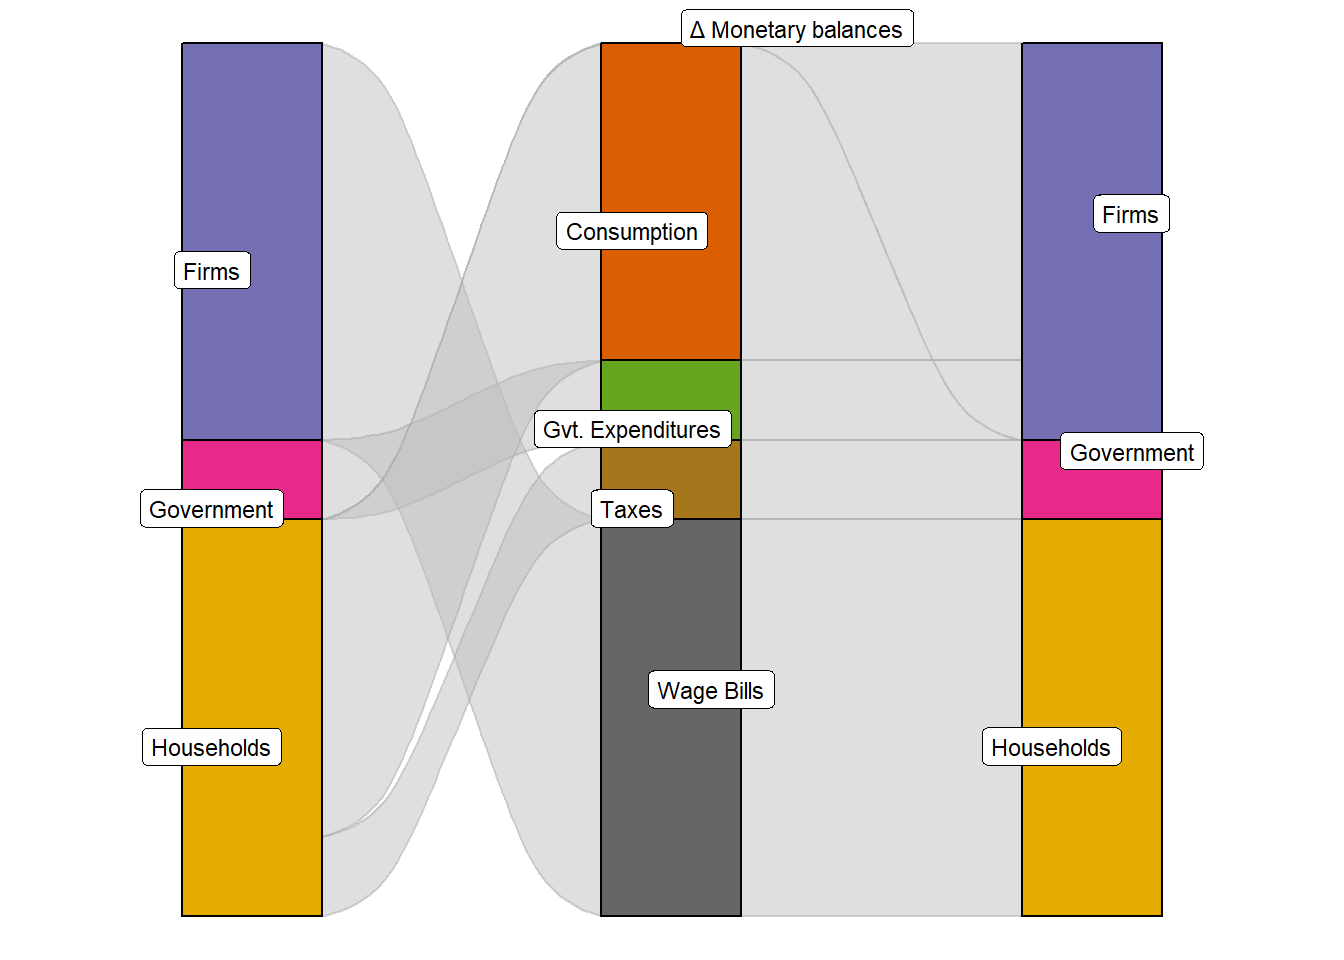
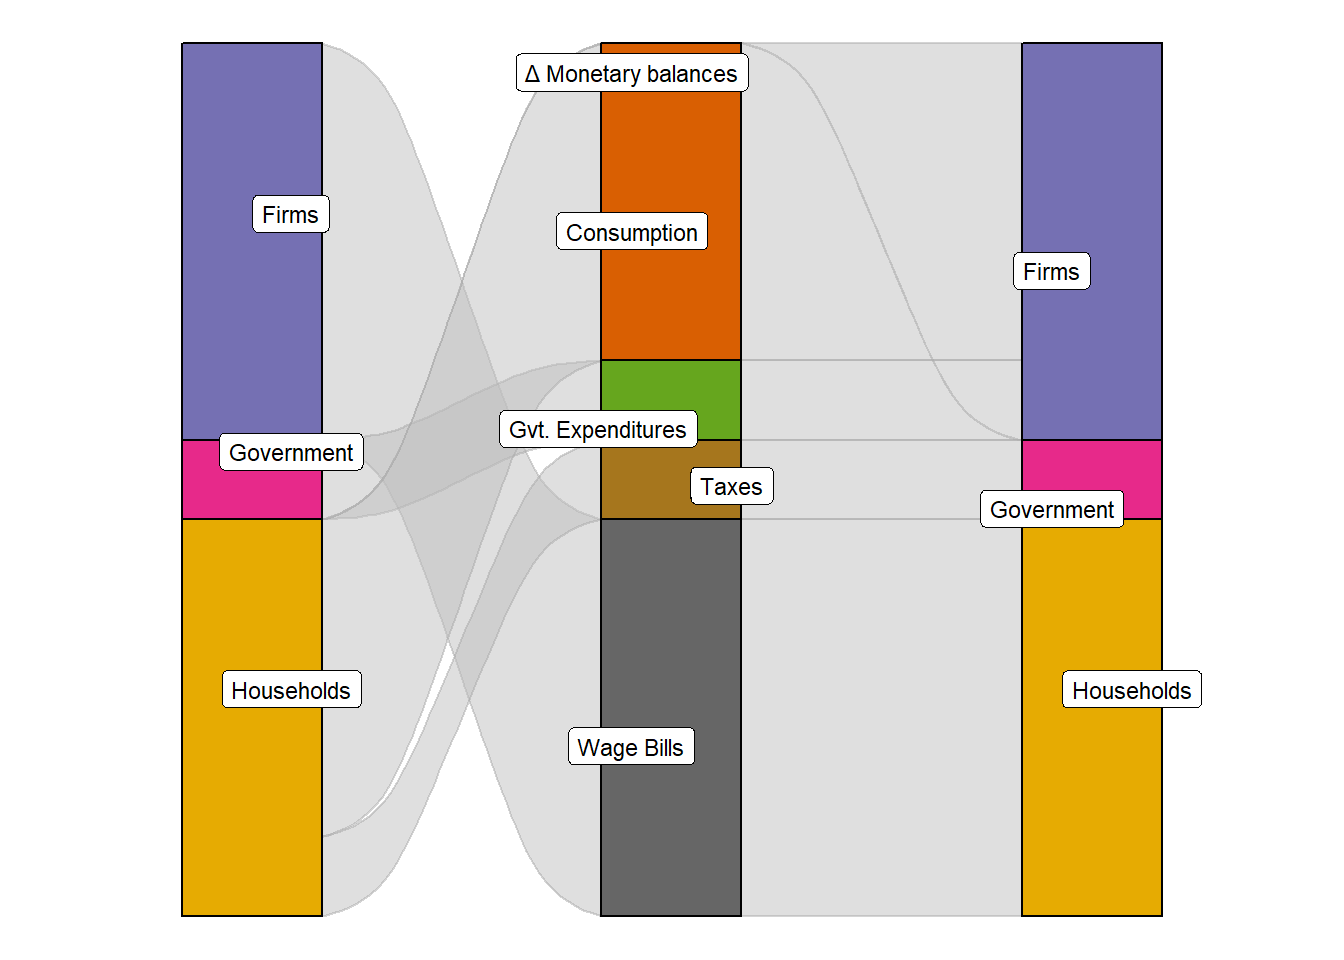
update

diff --git a/content/post/2020-10-17-sankey-s-diagram-in-r.html b/content/post/2020-10-17-sankey-s-diagram-in-r.html
@@ -4,7 +4,7 @@ author: João Pedro S. Macalós
 date: '2020-10-17'
 slug: sankey-s-diagram-in-r
 categories: []
-tags: []
+tags: [sfc]
 subtitle: ''
 summary: ''
 authors: []
@@ -14,10 +14,9 @@ image:
   caption: ''
   focal_point: ''
   preview_only: no
-projects: []
+projects: [sfc]
 output: 
-  blogdown::html_page:
-    pandoc_args: --webtex
+  blogdown::html_page
 bibliography: references.bib
 ---
 
@@ -28,8 +27,12 @@ bibliography: references.bib
 <script src="/rmarkdown-libs/sankeyNetwork-binding/sankeyNetwork.js"></script>
 
 
+<script src="//yihui.name/js/math-code.js"></script>
+<script async
+src="//cdn.bootcss.com/mathjax/2.7.1/MathJax.js?config=TeX-MML-AM_CHTML">
+</script>
 <p>In this post I will explain how to create a Sankey’s diagram to visualize a transactions-flow matrix of a SFC model.</p>
-<p>Load packages and the main functions of the <code>sfc</code> beta-package (under construction):</p>
+<p>Load packages and the main functions of the <code>sfc</code> package (under construction):</p>
 <pre class="r"><code>library(tidyverse)</code></pre>
 <pre><code>## -- Attaching packages ---------------------------------------------------------------------------------------------------- tidyverse 1.3.0 --</code></pre>
 <pre><code>## v ggplot2 3.3.2     v purrr   0.3.4
@@ -54,12 +57,6 @@ source(&#39;../../../sfc/gen_steady_todo.R&#39;)</code></pre>
 <p>The objective of this notebook is to show how to simulate the chapter 3 model (SIM model) of <span class="citation">Godley and Lavoie (2007)</span>.</p>
 <div id="sim-model" class="section level1">
 <h1>SIM model</h1>
-<p><span class="math display">\[\begin{equation*}
-\alpha = \beta + 3
-\end{equation*}\]</span></p>
-<p><span class="math display">\[
-\alpha = \beta + 3
-\]</span></p>
 <ul>
 <li>(Godley and Lavoie, ch. 3)</li>
 </ul>
@@ -217,16 +214,20 @@ links_sim_inflows &lt;- sim_inflows %&gt;%
   ))
 
 
-networkD3::sankeyNetwork(Links = as.data.frame(links_sim), Nodes = as.data.frame(sim_nodes1), 
+sn &lt;- networkD3::sankeyNetwork(Links = as.data.frame(links_sim), Nodes = as.data.frame(sim_nodes1), 
                           Source = &#39;source&#39;, 
                           Target = &#39;target&#39;, 
                           Value = &#39;value&#39;, 
                           NodeID = &#39;name&#39;,
                           units = &#39;dollars&#39;,
-                          fontSize = 14)</code></pre>
-<p><div id="htmlwidget-1" style="width:672px;height:480px;" class="sankeyNetwork html-widget"></div>
-<script type="application/json" data-for="htmlwidget-1">{"x":{"links":{"source":[7,6,7,5,7,0,1,2,3,4],"target":[0,1,2,3,4,8,8,9,10,9],"value":[79.9813074867666,20,0.00261138320718146,99.9776461578679,19.9955220513811,79.9813074867666,20,0.00261138320718146,99.9776461578679,19.9955220513811]},"nodes":{"name":["Consumption","Gvt. Expenditures","Δ Monetary balances","Wage Bills","Taxes","Firms","Government","Households","Firms","Government","Households"],"group":["Consumption","Gvt. Expenditures","Δ Monetary balances","Wage Bills","Taxes","Firms","Government","Households","Firms","Government","Households"]},"options":{"NodeID":"name","NodeGroup":"name","LinkGroup":null,"colourScale":"d3.scaleOrdinal(d3.schemeCategory20);","fontSize":14,"fontFamily":null,"nodeWidth":15,"nodePadding":10,"units":"dollars","margin":{"top":null,"right":null,"bottom":null,"left":null},"iterations":32,"sinksRight":true}},"evals":[],"jsHooks":[]}</script>
-# Sankey’s 2 (ggalluvial method)</p>
+                          fontSize = 14)
+
+htmlwidgets::onRender(sn, &#39;function(el) { el.querySelector(&quot;svg&quot;).removeAttribute(&quot;viewBox&quot;) }&#39;)</code></pre>
+<div id="htmlwidget-1" style="width:672px;height:480px;" class="sankeyNetwork html-widget"></div>
+<script type="application/json" data-for="htmlwidget-1">{"x":{"links":{"source":[7,6,7,5,7,0,1,2,3,4],"target":[0,1,2,3,4,8,8,9,10,9],"value":[79.9813074867666,20,0.00261138320718146,99.9776461578679,19.9955220513811,79.9813074867666,20,0.00261138320718146,99.9776461578679,19.9955220513811]},"nodes":{"name":["Consumption","Gvt. Expenditures","Δ Monetary balances","Wage Bills","Taxes","Firms","Government","Households","Firms","Government","Households"],"group":["Consumption","Gvt. Expenditures","Δ Monetary balances","Wage Bills","Taxes","Firms","Government","Households","Firms","Government","Households"]},"options":{"NodeID":"name","NodeGroup":"name","LinkGroup":null,"colourScale":"d3.scaleOrdinal(d3.schemeCategory20);","fontSize":14,"fontFamily":null,"nodeWidth":15,"nodePadding":10,"units":"dollars","margin":{"top":null,"right":null,"bottom":null,"left":null},"iterations":32,"sinksRight":true}},"evals":[],"jsHooks":{"render":[{"code":"function(el) { el.querySelector(\"svg\").removeAttribute(\"viewBox\") }","data":null}]}}</script>
+</div>
+<div id="sankeys-2-ggalluvial-method" class="section level1">
+<h1>Sankey’s 2 (ggalluvial method)</h1>
 <p>If you like the <code>ggplot2</code> way of making graphs, the <code>ggalluvial</code> package is the way.</p>
 <p>It must be said, though, that alluvial plots are slightly different than Sankey’s diagram. More information can be retrieved <a href="https://rkabacoff.github.io/datavis/Other.html#flow-diagrams">in this book</a>.</p>
 <p>It’s easier to see the logic using the wider method: you have three axis, and one column of values.</p>

diff --git a/layouts/partials/foot_custom.html b/layouts/partials/foot_custom.html
@@ -1,0 +1,4 @@
+<script src="//yihui.name/js/math-code.js"></script>
+<script async
+src="//cdn.bootcss.com/mathjax/2.7.1/MathJax.js?config=TeX-MML-AM_CHTML">
+</script>

diff --git a/content/authors/admin/_index.md b/content/authors/admin/_index.md
@@ -73,6 +73,6 @@ user_groups:
 - Visitors
 ---
 
-A Brazilian expatriate in Paris, I'm a Ph.D. candidate in Economics at the Centre d'Économie de l'Université Paris Nord (CEPN). My research interests include financial globalization, the integration of emerging economies to global markets, and international macroeconomics. I'm also one of the coordinators of the States & Markets working group at the Young Scholars' Initiative (YSI).
+A Brazilian expatriate in Paris. I'm a Ph.D. candidate in Economics at the Centre d'Économie de l'Université Paris Nord (CEPN). My research interests include financial globalization, the integration of emerging economies to global markets, and international macroeconomics. I'm also one of the coordinators of the States & Markets working group at the Young Scholars' Initiative (YSI).
 
 I love football (it is football, not soccer, please.), statistics, literature, and economics, not necessarily in that order.

diff --git a/content/home/projects.md b/content/home/projects.md
@@ -21,17 +21,17 @@ subtitle = ""
   # Default filter index (e.g. 0 corresponds to the first `[[filter_button]]` instance below).
   filter_default = 0
   
-  # [[content.filter_button]]
-  #   name = "All"
-  #   tag = "*"
+   [[content.filter_button]]
+     name = "All"
+     tag = "*"
   
   # [[content.filter_button]]
   #   name = "Deep Learning"
   #   tag = "Deep Learning"
   
-  # [[content.filter_button]]
-  #   name = "Other"
-  #   tag = "Demo"
+  [[content.filter_button]]
+     name = "Stock-flow consistent models"
+     tag = "sfc"
 
 [design]
   # Choose how many columns the section has. Valid values: 1 or 2.
